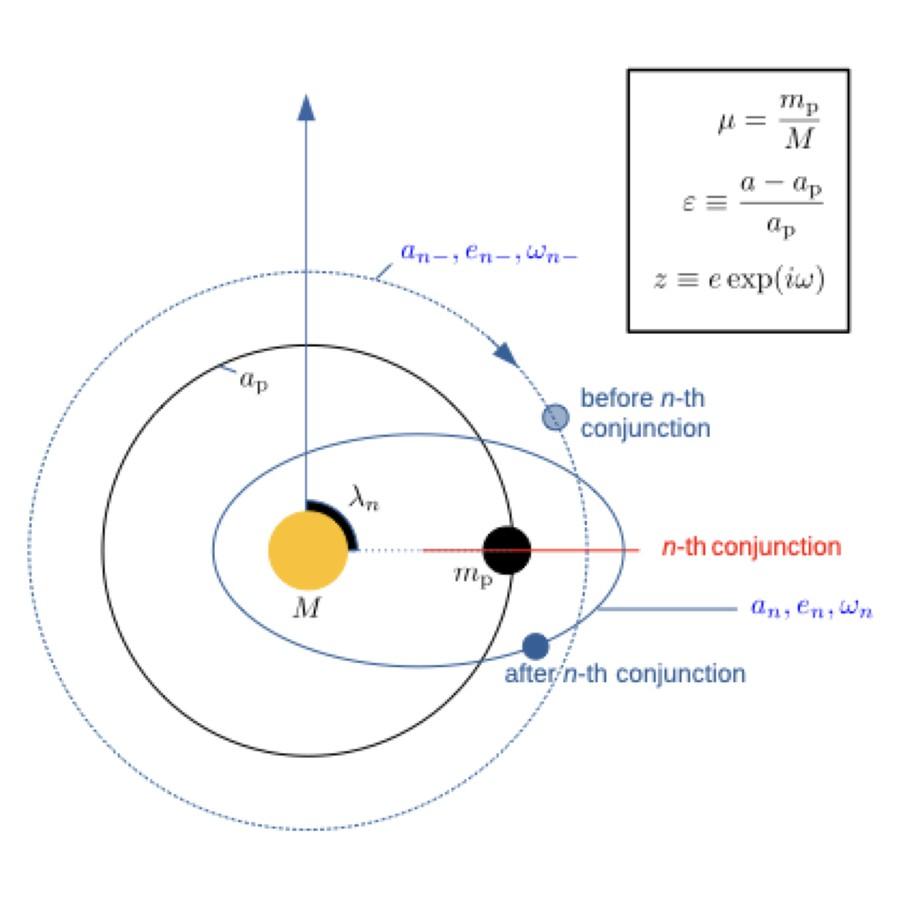
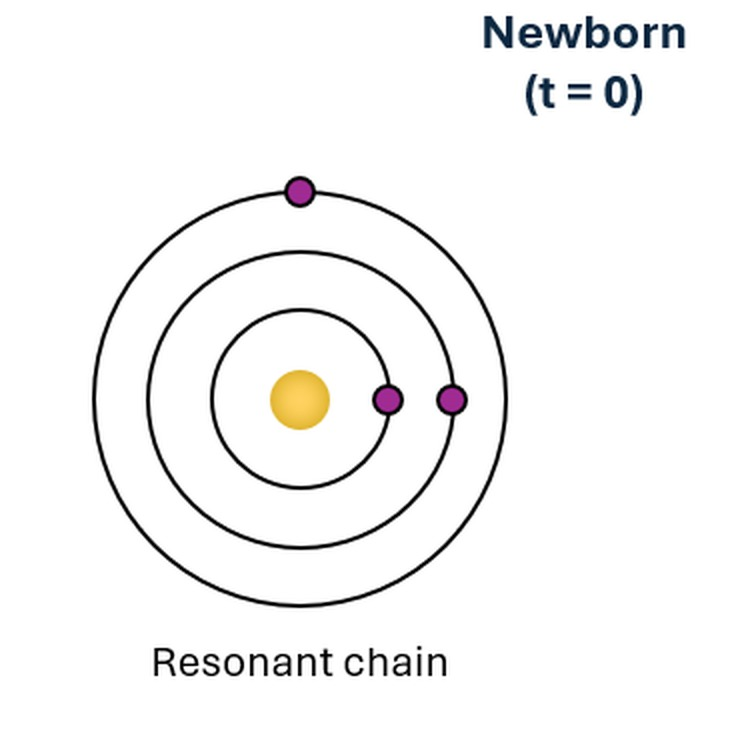
Use the resonant-chain panel for the planetary topic
Swaps the orbital-notation diagram for the 'Newborn / Resonant chain'
panel of the schematic in Li, O'Connor & Rasio (2026), arXiv:2510.18955.
It reads clearly at thumbnail size -- star, three orbits, three planets --
where the notation diagram was dense and the SPH snapshot showed fluid
rather than orbital dynamics.

diff --git a/index.html b/index.html
@@ -77,11 +77,11 @@
 
         <article class="topic">
           <img src="assets/media/hero-planet-dynamics.jpg"
-               alt="Diagram of the orbital geometry of a planet and a test body, showing how the orbit changes at conjunction"
-               width="900" height="900" loading="lazy">
+               alt="Diagram of a compact planetary system in a chain of mean-motion resonances"
+               width="730" height="730" loading="lazy">
           <h3>Dynamics of planetary systems</h3>
           <p class="small muted">Planet&ndash;planet scattering, collisions and mergers, the spins and obliquities of merger remnants, and how resonant chains are broken.</p>
-          <p class="topic-src">The geometry behind dynamical instability: a body&rsquo;s orbit is kicked at every conjunction with the planet. From <a href="publications.html#pub-LRL2024">Li, Rodet &amp; Lai (2024)</a>.</p>
+          <p class="topic-src">A compact system newly born in a chain of mean-motion resonances &mdash; the starting point of the breaking-the-chains scenario. From <a href="publications.html#pub-LOR2025">Li, O&rsquo;Connor &amp; Rasio (2026)</a>.</p>
         </article>
 
         <article class="topic">
